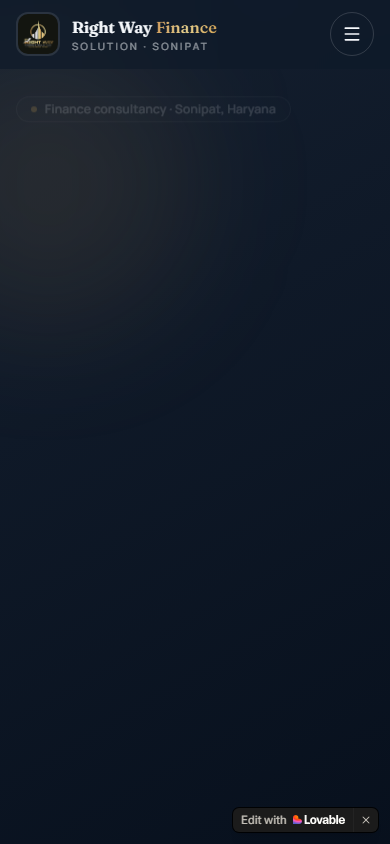
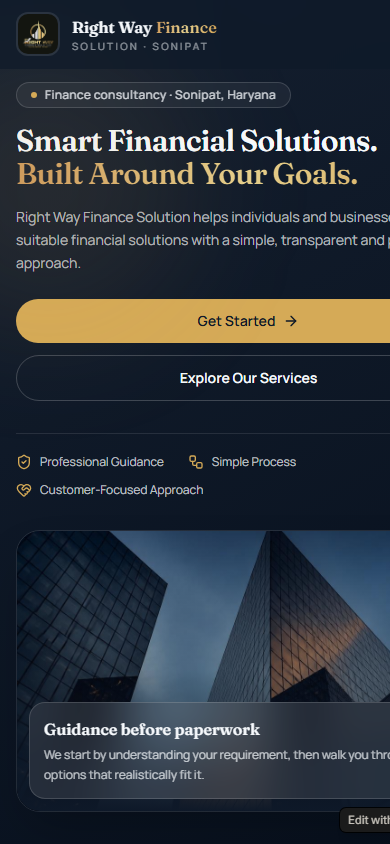
fix: remove top discount announcement bars from showcase cards and update finance card

diff --git a/index.html b/index.html
@@ -4008,56 +4008,56 @@
         title: "Cafe & Bistro",
         tag: "Food & Beverage / Restaurant",
         image: "images/cafe-olive.png",
-        showcaseImage: "images/mobile-cafe.png?v=3",
-        mobileImage: "images/mobile-cafe.png?v=3",
+        showcaseImage: "images/mobile-cafe.png?v=4",
+        mobileImage: "images/mobile-cafe.png?v=4",
         link: "https://cafe-olive-chi.vercel.app/"
       },
       {
         title: "Prime Chic",
         tag: "E-Commerce / Fashion & Apparel",
         image: "images/prime-chic.png",
-        showcaseImage: "images/mobile-prime-chic.png?v=3",
-        mobileImage: "images/mobile-prime-chic.png?v=3",
+        showcaseImage: "images/mobile-prime-chic.png?v=4",
+        mobileImage: "images/mobile-prime-chic.png?v=4",
         link: "https://prime-chic-studio.vercel.app/"
       },
       {
         title: "Handbag Studio",
         tag: "E-Commerce / Luxury Leathercraft",
         image: "images/handbag-website.png",
-        showcaseImage: "images/mobile-handbag.png?v=3",
-        mobileImage: "images/mobile-handbag.png?v=3",
+        showcaseImage: "images/mobile-handbag.png?v=4",
+        mobileImage: "images/mobile-handbag.png?v=4",
         link: "https://handbag-website-woad.vercel.app/"
       },
       {
         title: "Real Estate Platform",
         tag: "Real Estate / Property Listings",
         image: "images/shiv-property.png",
-        showcaseImage: "images/mobile-shiv.png?v=3",
-        mobileImage: "images/mobile-shiv.png?v=3",
+        showcaseImage: "images/mobile-shiv.png?v=4",
+        mobileImage: "images/mobile-shiv.png?v=4",
         link: "https://shiv-nine-gamma.vercel.app/"
       },
       {
         title: "B2B Wholesale & Textile",
         tag: "B2B / Wholesale / Textile",
         image: "images/blanket-hub.png?v=2",
-        showcaseImage: "images/mobile-blanket.png?v=3",
-        mobileImage: "images/mobile-blanket.png?v=3",
+        showcaseImage: "images/mobile-blanket.png?v=4",
+        mobileImage: "images/mobile-blanket.png?v=4",
         link: "https://blanket-hub.vercel.app/"
       },
       {
         title: "Bakery & Patisserie Storefront",
         tag: "Bakery / Food & Beverage",
         image: "images/bakery-storefront.png",
-        showcaseImage: "images/mobile-bakery.png?v=3",
-        mobileImage: "images/mobile-bakery.png?v=3",
+        showcaseImage: "images/mobile-bakery.png?v=4",
+        mobileImage: "images/mobile-bakery.png?v=4",
         link: "https://sweet-crafted-visions.lovable.app/"
       },
       {
         title: "Finance & Loan Hub",
         tag: "Finance / Loan Services / Fintech",
         image: "images/rightway-finance.png",
-        showcaseImage: "images/mobile-finance.png?v=3",
-        mobileImage: "images/mobile-finance.png?v=3",
+        showcaseImage: "images/mobile-finance.png?v=4",
+        mobileImage: "images/mobile-finance.png?v=4",
         link: "https://rightway-finance-hub.lovable.app"
       }
     ];
